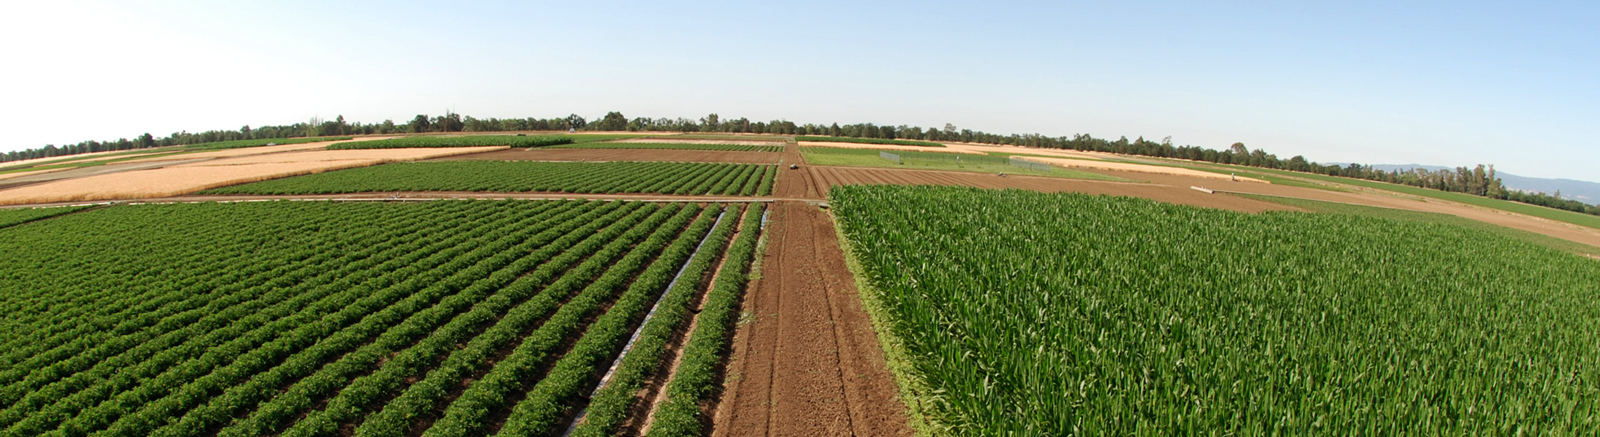
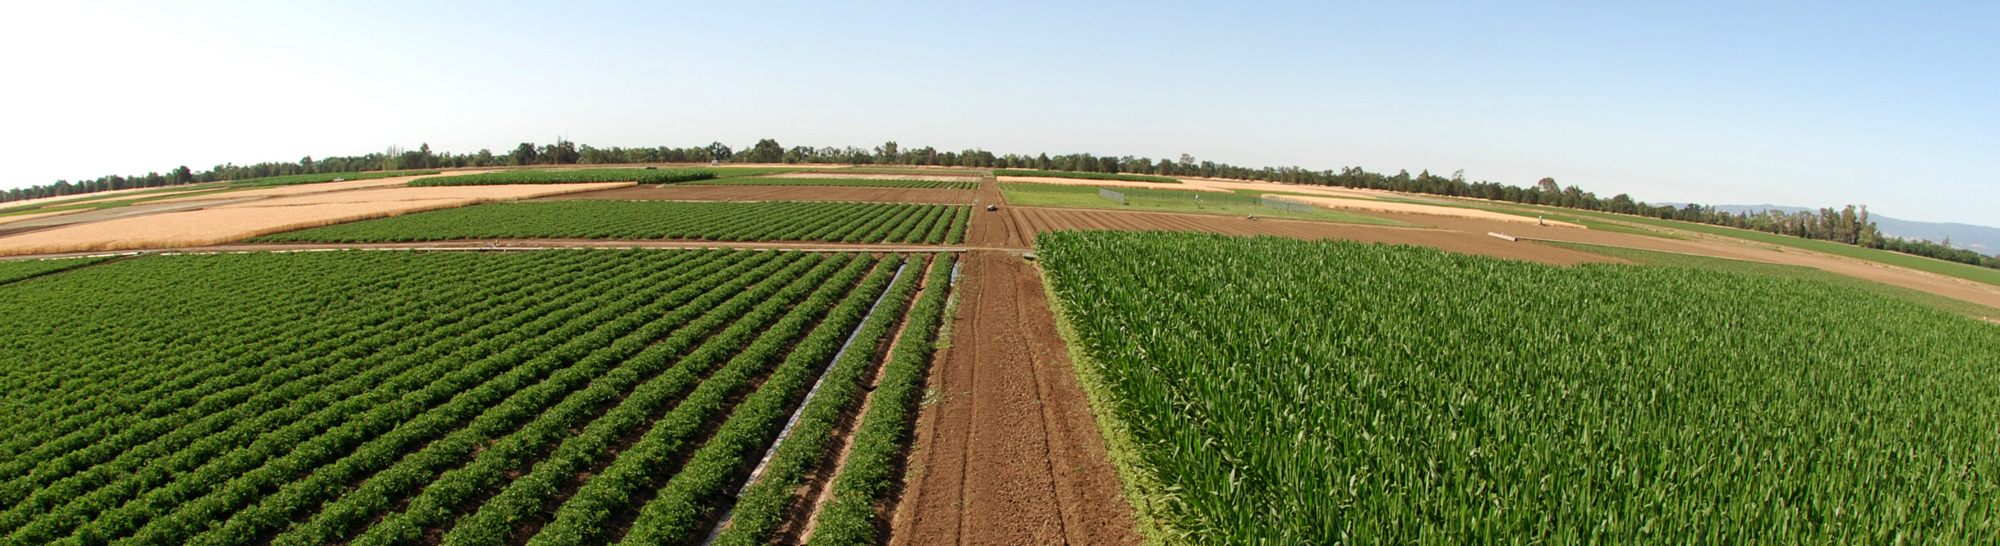
wider image and no repeat

diff --git a/plone/147-asi/sass/_regions.scss b/plone/147-asi/sass/_regions.scss
@@ -329,8 +329,8 @@ p.standout_gold {
         postion: relative;
         height: 350px;
         overflow: hidden;
-        background-image:url(../images/asi_banner.jpg);
-        background-position: 50% 15%;
+        background:transparent url("../images/asi_banner.jpg") no-repeat scroll 0% 0%;
+        background-size:cover;
         @include breakpoint (laptop) {
             height: 225px;
         }

diff --git a/plone/147-asi/css/style.css b/plone/147-asi/css/style.css
@@ -2637,8 +2637,8 @@ p.standout_gold {
   postion: relative;
   height: 350px;
   overflow: hidden;
-  background-image: url(../images/asi_banner.jpg);
-  background-position: 50% 15%; }
+  background: transparent url("../images/asi_banner.jpg") no-repeat scroll 0% 0%;
+  background-size: cover; }
   @media (max-width: 1000px) {
     .section-homepage .homepage_slider {
       height: 225px; } }
